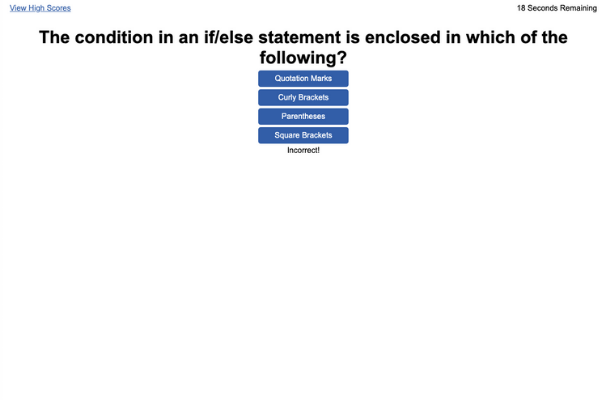
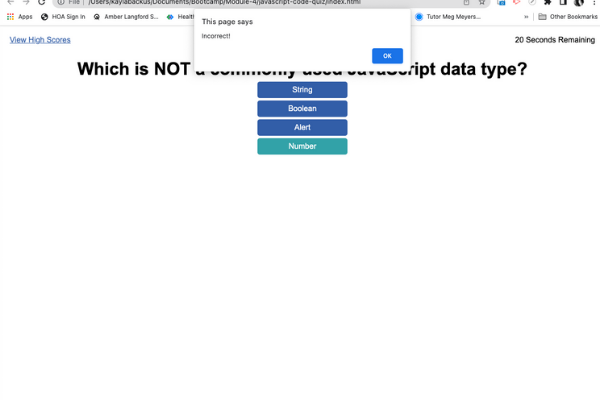
Edited README.md and fixed the answer checking functionality with Meg Meyers' help.

Changed region(s): [[0.0, 0.0, 1.0, 0.39], [0.12, 0.15, 0.33, 0.21]]

diff --git a/assets/js/script.js b/assets/js/script.js
@@ -1,7 +1,7 @@
 var startEl = document.getElementById("startBtn");
 var timerEl = document.getElementById("timer");
 var mainEl = document.getElementById("main");
-var timeLeft = 40;
+var timeLeft = 20;
 var introText = document.getElementById("intro");
 var questionEl = document.getElementById("question");
 var optionEl = document.getElementById("option");
@@ -19,7 +19,6 @@ var li2 = document.createElement("li");
 var li3 = document.createElement("li");
 var li4 = document.createElement("li");
 
-// Click the start button. Timer starts. 
 
 function countdown() {
     timerEl.textContent = timeLeft + " Seconds Remaining";
@@ -41,59 +40,83 @@ function timer() {
     firstQuestion();
 }
 
-function getAnswer(answer) {
-    if (this.value !== answer) {
-        timeLeft -= 10
-        if (timeLeft <= 0) {
-            timeLeft = 0
-        }
-        feedback.textContent = "Incorrect!"
-    } else {
-        feedback.textContent = "Correct!"
-    }
-}
-
-// Once they click the start button, first question appears. Intro text and start button disappear.
+// Once they click the start button, the timer starts and the first question appears. Intro text and start button disappear.
+startEl.addEventListener("click", timer);
 
 function firstQuestion() {
     questionH2.textContent = "Which is NOT a commonly used JavaScript data type?";
     questionEl.appendChild(questionH2);
 
-    optionEl.appendChild(answerUl);
-
+    // Correct answer to the question.
     var answer = "Alert";
 
+    optionEl.appendChild(answerUl);
+
+    // Each answer option needs its own event listener, and then it has to be able to tell if that is the correct answer or not.
     li1.textContent = "String";
-    li1.setAttribute("value", "String");
-    li1.addEventListener("click", function() {
-        getAnswer(answer);
+    li1.addEventListener("click", function(){
+        if ("String" !== answer){
+            timeLeft -= 10;           
+            if (timeLeft <= 0){
+                timeLeft = 0
+            }   
+            timerEl.textContent = timeLeft;    
+            alert("Incorrect!")    
+        } else {   
+            alert("Correct!")
+        }   
+        secondQuestion();
     });
     answerUl.appendChild(li1);
 
     li2.textContent = "Boolean";
-    li2.setAttribute("value", "Boolean");
-    li2.addEventListener("click", function() {
-        getAnswer(answer);
-    });    
+    li2.addEventListener("click", function(){
+        if ("Boolean" !== answer){
+            timeLeft -= 10;           
+            if (timeLeft <= 0){
+                timeLeft = 0
+            }   
+            timerEl.textContent = timeLeft;    
+            alert("Incorrect!")    
+        } else {   
+            alert("Correct!")
+        }    
+        secondQuestion();
+    });
     answerUl.appendChild(li2);
 
-    li3.textContent = "Alert";
-    li3.getAttribute("value", "Alert");
-    li3.addEventListener("click", function() {
-        getAnswer(answer);
+    li3.textContent = "Alert"
+    li3.addEventListener("click", function(){
+        if ("Alert" !== answer){
+            timeLeft -= 10;           
+            if (timeLeft <= 0){
+                timeLeft = 0
+            }   
+            timerEl.textContent = timeLeft;    
+            alert("Incorrect!")    
+        } else {   
+            alert("Correct!")
+        }   
+        secondQuestion();
     });
     answerUl.appendChild(li3);
 
     li4.textContent = "Number";
-    li4.getAttribute("value", "Number");
-    li4.addEventListener("click", function() {
-        getAnswer(answer);
+    li4.addEventListener("click", function(){
+        if ("Number" !== answer){
+            timeLeft -= 10;           
+            if (timeLeft <= 0){
+                timeLeft = 0
+            }   
+            timerEl.textContent = timeLeft;    
+            alert("Incorrect!")    
+        } else {   
+            alert("Correct!")
+        }   
+        secondQuestion();
     });
-    answerUl.appendChild(li4);
-
-    answerUl.addEventListener("click", secondQuestion);
+    answerUl.appendChild(li4); 
 }
-
 
 // When the user clicks an answer in firstQuestion, the second question appears.
 function secondQuestion() {
@@ -102,66 +125,75 @@ function secondQuestion() {
 
     optionEl.appendChild(answerUl);
 
+    // Correct answer
+    var answer = "Curly Brackets";
+
     li1.textContent = "Quotation Marks";
+    li1.addEventListener("click", function(){
+        if ("Quotation Marks" !== answer){
+            timeLeft -= 10;           
+            if (timeLeft <= 0){
+                timeLeft = 0
+            }   
+            timerEl.textContent = timeLeft;    
+            alert("Incorrect!")    
+        } else {   
+            alert("Correct!")
+        }   
+        scoreDisplay();
+    });
     answerUl.appendChild(li1);
 
     li2.textContent = "Curly Brackets";
+    li2.addEventListener("click", function(){
+        if ("Curly Brackets" !== answer){
+            timeLeft -= 10;           
+            if (timeLeft <= 0){
+                timeLeft = 0
+            }   
+            timerEl.textContent = timeLeft;    
+            alert("Incorrect!")    
+        } else {   
+            alert("Correct!")
+        }   
+        scoreDisplay();
+    });
     answerUl.appendChild(li2);
 
     li3.textContent = "Parentheses";
+    li3.addEventListener("click", function(){
+        if ("Parentheses" !== answer){
+            timeLeft -= 10;           
+            if (timeLeft <= 0){
+                timeLeft = 0
+            }   
+            timerEl.textContent = timeLeft;    
+            alert("Incorrect!")    
+        } else {   
+            alert("Correct!")
+        }    
+        scoreDisplay();
+    });
     answerUl.appendChild(li3);
 
     li4.textContent = "Square Brackets";
-    answerUl.appendChild(li4);
-
-    answerUl.addEventListener("click", thirdQuestion);
+    li4.addEventListener("click", function(){
+        if ("Square Brackets" !== answer){
+            timeLeft -= 10;           
+            if (timeLeft <= 0){
+                timeLeft = 0
+            }   
+            timerEl.textContent = timeLeft;    
+            alert("Incorrect!")    
+        } else {   
+            alert("Correct!")
+        }    
+        scoreDisplay();
+    });
+    answerUl.appendChild(li4); 
 }
 
-// When the user clicks an answer in secondQuestion, the third question appears.
-function thirdQuestion() {
-    questionH2.textContent = "Which of the following can be stored in arrays in JavaScript?";
-    questionEl.appendChild(questionH2);
-
-    optionEl.appendChild(answerUl);
-
-    li1.textContent = "Numbers & Strings";
-    answerUl.appendChild(li1);
-
-    li2.textContent = "Booleans";
-    answerUl.appendChild(li2);
-
-    li3.textContent = "Other Arrays";
-    answerUl.appendChild(li3);
-
-    li4.textContent = "All of the Above";
-    answerUl.appendChild(li4);
-
-    answerUl.addEventListener("click", fourthQuestion);
-}
-
-// When the user clicks an answer in thirdQuestion, the last question appears.
-function fourthQuestion() {
-    questionH2.textContent = "When being assigned to a variable, which of the following must string values be enclosed with?";
-    questionEl.appendChild(questionH2);
-
-    optionEl.appendChild(answerUl);
-
-    li1.textContent = "Commas";
-    answerUl.appendChild(li1);
-
-    li2.textContent = "Curly Brackets";
-    answerUl.appendChild(li2);
-
-    li3.textContent = "Quotation Marks";
-    answerUl.appendChild(li3);
-
-    li4.textContent = "Parentheses";
-    answerUl.appendChild(li4);
-
-    answerUl.addEventListener("click", scoreDisplay);
-}
-
-// When the user clicks an answer in fourthQuestion, their score displays on the screen and are able to enter their initials in order to log it to the High Scores page.
+// When the user clicks an answer in the last question, their score displays on the screen and are able to enter their initials in order to log it to the High Scores page.
 function scoreDisplay() {
     clearInterval(setInterval);
     questionH2.textContent = "All done!";
@@ -169,12 +201,10 @@ function scoreDisplay() {
     answerUl.setAttribute("style", "display:none");
     scoreText.textContent = "Your final score is " + timeLeft + ".";
     enterInitials.textContent = "Enter initials to log your score: ";
-    initialsInput.innerHTML = "<label for='initials'></label><input type='text' name='initials' id='initialsInput'/>"
+    initialsInput.innerHTML = "<label for='initials'></label><input type='text' name='initials' id='initialsInput'/><button class='btn'>Submit</button>"
 }
 
 function saveScore() {
     // text box, choose value,
     // get (to see what's in localStorage), make new object and add to it, push to local storage
 }
-
-startEl.addEventListener("click", timer);

diff --git a/README.md b/README.md
@@ -3,17 +3,15 @@
 ## Description
 This is a brief quiz designed to test the knowledge of the user about JavaScript.
 
-This project is not complete. Even after going to office hours and meeting with a tutor, I didn't have time to complete it to my satisfaction and stay on track within the course. I decided to submit what I have.
+This project is not complete. Even after going to office hours, meeting with a tutor, and talking to her outside of our one hour session, I didn't have time to complete it to my satisfaction and stay on track within the course. I decided to submit what I have.
 
-I was very excited and still am pleased that I was able to get the questions to appear on the page after a mouse click. That's about where the functionality of this quiz ends.
+I was very excited and still am pleased that I was able to get the questions to appear on the page after a mouse click. My boot camp tutor Meg Meyers helped me with making sure that the computer could tell which answer was correct or incorrect. That's about where the functionality of this quiz ends.
 
-There are several pieces still missing from this quiz. The script.js isn't able to tell which answer in the first question is the correct answer. The remaining questions don't have any correct or incorrect answers labeled. The "Incorrect!" that appears at the bottom of the page is from the first question.
+There is a glitch in the second question. An "incorrect" alert appears every time the user clicks an answer regardless of if it's correct or not. But then, a second alert appears saying if the answer they picked is correct or not.
 
-Every time the mouse is clicked, 10 seconds are deducted from the time remaining. And in an effort to make sure that the time wouldn't go negative, I seem to have mixed up the score that gets logged on the final page. So right now, everyone gets 0.
+There are several pieces still missing from this quiz. One example is the input box for the initials isn't connected to the High Scores page. I didn't get to coding that at all.
 
-The input box for the initials isn't connected to the High Scores page. I didn't get to coding that at all.
-
-The code that I wrote for this project is very repetitive. My tutor reminded me about the DRY method, and we talked about using an array. I started to code an array to use, but I couldn't figure out how to get the items from the array to print to the screen. 
+The code that I wrote for this project is very repetitive. (That's why it's only two questions long.) My tutor reminded me about the DRY method, and we talked about using an array. I started to code an array to use, but I couldn't figure out how to get the items from the array to print to the screen. 
 
 In the future, if I'm going to use this project in a portfolio, I need to clean up the code and use an array to cycle through the questions/answer options on the screen. 
 
@@ -24,17 +22,23 @@ In order to access this repository, the user needs to clone it from GitHub using
 As it is, when the user clicks on the "Start Quiz" button, the first question appears. 
 ![The first screen shot is of the homepage of the quiz. It's a white background with the cursor on a green start button. The screen says "Coding Quiz Challenge. Try to answer the following code-related questions within the time limit. Keep in mind that incorrect answers will penalize your score/time by ten seconds.](assets/images/screenshot1.png)
 
-When the user clicks on any of the answer options, their score is deducted by 10 and the alert on the page says "Incorrect!". This is incorrect functionality. The user expects that when they click on the correct answer, they will be taken to the next question with no time deductions. 
-![The screenshot shows a quiz question with four options in blue below it. Below those options is text that says, "Incorrect!" The time remaining shows in the upper right corner.](assets/images/screenshot2.png)
+When the user clicks on an incorrect answer, their score is deducted by 10 and the alert on the page says "Incorrect!"
+![The screenshot shows a quiz question with three options in blue and one option in green below it. There is a dialogue box in the window that says, "Incorrect!" The time remaining shows in the upper right corner.](assets/images/screenshot2.png)
 
-After the last question of the quiz or when the timer runs to 0, the user is taken to a final screen. Their score is displayed, and they have a text box where they can enter their initials to log their score. There should be a button where they can submit their initials and score to be logged onto the high score page. This page can be viewed via the link in the top left corner. 
+When the user clicks on a correct answer, an alert appears on the page saying, "Correct!" No time is deducted.
+![The screenshot shows a quiz question with three options in blue and one option in green below it. There is a dialogue box in the window that says, "Correct!" The time remaining shows in the upper right corner.](assets/images/screenshot2-5.png)
+
+The second question of the quiz has an incorrectly functionality that will need to be corrected in the future. When the user clicks on one of the choices, they receive two alerts. The user expects the second question to act like the first question.
+
+After the last question of the quiz or when the timer runs to 0, the user is taken to a final screen. Their score is displayed, and they have a text box where they can enter their initials to log their score. There is a button that would be used to submit their initials and score to be logged onto the high score page. This button is not currently working. The high score page can be viewed via the link in the top left corner. 
 ![The screenshot shows text that reads, "All done! Your final score is 0. Enter intiials to log your score.](assets/images/screenshot3.png)
 
-The page itself would ideally be logging and sorting all of the quiz scores so that the user can see how they rate against their peers. The user can retake the quiz by clicking the button that says, "Take the Quiz Again," or they can clear all of the scores by clicking the button that says, "Clear High Scores."
+The high score page itself would ideally be logging and sorting all of the quiz scores so that the user can see how they rate against their peers. The user can retake the quiz by clicking the button that says, "Take the Quiz Again," or if it were working properly, they would be able to clear all of the scores by clicking the button that says, "Clear High Scores."
 ![The screenshot says "High Scores." There are two blue buttons that say, "Take the Quiz Again," and "Clear High Scores."](assets/images/screenshot4.png)
 
 ## Credits
-Thank you to the class TA's and the boot camp tutor Meg Meyers for their efforts in trying to help me understand how to combine HTML, CSS and JavaScript into one project. I look forward to continuing to learn these skills in this course.
+Thank you to boot camp tutor Meg Meyers for heavily assisting me with figuring out how to make sure that the computer checks each quiz question against the correct question. 
+
 The wording for the license on this project is from the MIT License outlined [here](https://choosealicense.com/licenses/mit/).
 
 ## License
